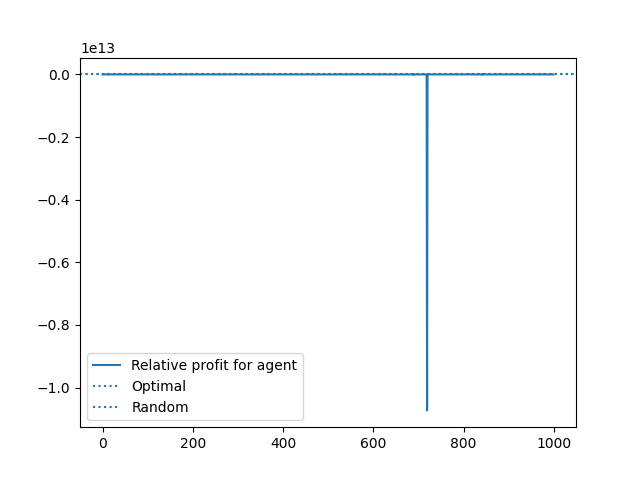
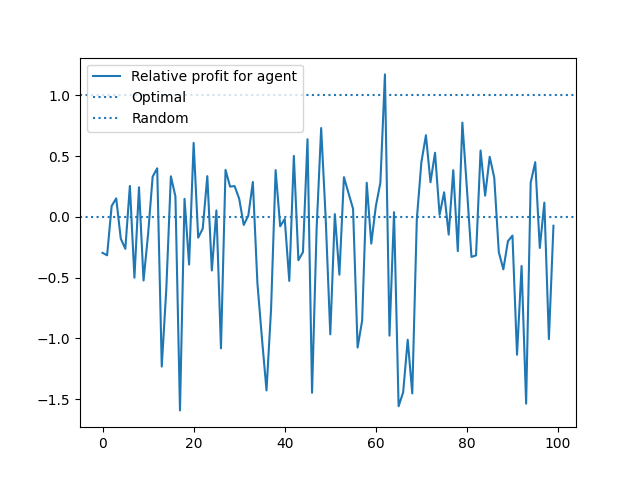
optimal agent

diff --git a/gym_trading_btc/gym_anytrading/envs/bitcoin_env.py b/gym_trading_btc/gym_anytrading/envs/bitcoin_env.py
@@ -11,7 +11,6 @@ class Actions(Enum):
     Stay = 0
     Buy = 1
 
-
 class CryptoEnv:
 
     metadata = {'render.modes': ['human']}
@@ -25,8 +24,8 @@ class CryptoEnv:
         assert df.ndim == 2
         assert df.shape[0] > self.window_size
 
-        self.trade_fee_bid_percent = 0.00  # unit
-        self._unit = 1  # units of btc
+        self.trade_fee_bid_percent = 0.0  # unit
+        self.unit = 1  # units of btc
         self._quantity = 0  # positive quantity
 
         self.seed()
@@ -284,7 +283,7 @@ class CryptoEnv:
         if terminal:
             # etat terminal -> on revend tout au prix du marché pour avoir notre profit
             s_fees = 1 if self._quantity < 0 else -1
-            transation_amount = self._quantity * self._unit * current_price * \
+            transation_amount = self._quantity * self.unit * current_price * \
                 (1 + s_fees * self.trade_fee_bid_percent)   # Sell or buy everything we need/can
             self._total_profit += transation_amount
             reward = self._total_profit
@@ -293,20 +292,20 @@ class CryptoEnv:
         else:
             if action == Actions.Buy.value:  # Buy
                 self._quantity += 1
-                current_transaction_amount = -self._unit * \
+                current_transaction_amount = -self.unit * \
                     current_price * (1+self.trade_fee_bid_percent)
                 self._total_profit += current_transaction_amount
 
             elif action == Actions.Sell.value:  # Sell
                 self._quantity -= 1
-                current_transaction_amount = self._unit * \
+                current_transaction_amount = self.unit * \
                     current_price * (1-self.trade_fee_bid_percent)
                 self._total_profit += current_transaction_amount
 
             s_fees = 0 if action == Actions.Stay.value else 1
-            reward = self._quantity * self._unit * \
+            reward = self._quantity * self.unit * \
                 (next_price - current_price) + \
-                s_fees * self.trade_fee_bid_percent * self._unit * \
+                s_fees * self.trade_fee_bid_percent * self.unit * \
                 current_price  # On n'ajoute les fees que lorsque l'on sell ou buy
             return reward
 

diff --git a/analytics/env_scorer.py b/analytics/env_scorer.py
@@ -41,41 +41,24 @@ class CryptoEnvScorer():
         return random_profit, agent_profit, optimal_profit
 
     def play_optimal(self):
-
+        fees = self.env.trade_fee_bid_percent
+        unit = self.env.unit
         start = self.env._current_tick
         steps = self.env.frame_len
         end = start + steps
-        actions = [Actions.Stay] * steps
         prices = self.env.prices[start:end]
 
-        def get_current_profit(prices, actions):
-            profit = 0
-            count = 0
-            for i in range(steps):
-                if (actions[i] == Actions.Buy):
-                    count += 1
-                    profit -= prices[i] # TODO fees
-                elif (actions[i] == Actions.Sell):
-                    count -= 1
-                    profit += prices[i] # TODO fees
-            profit += count * prices[steps-1]
-            return profit
-
-        profit = get_current_profit(prices, actions)
-
-        for i in range(3 * steps):
-            rand_index = rand.randint(0, steps - 1)
-            initial_action = actions[rand_index]
-            rand_action = initial_action
-            while(rand_action == initial_action):
-                rand_action = np.random.choice(list(Actions))
-            actions[rand_index] = rand_action
-            new_profit = get_current_profit(prices, actions)
-            if (new_profit <= profit):
-                actions[rand_index] = initial_action
-            else:
-                profit = new_profit
-            #print(profit)
+        profit = 0
+        end_buy_price = prices[steps - 1] * (1 + fees)
+        end_sell_price = prices[steps - 1] * (1 - fees)
+        
+        for i in range(steps - 1):
+            buy_price = prices[i] * (1 + fees)
+            sell_price = prices[i] * (1 - fees)
+            if sell_price > end_buy_price:
+                profit += unit * (sell_price - end_buy_price)
+            elif buy_price < end_sell_price:
+                profit += unit * (end_sell_price - buy_price)
 
         return profit
 

diff --git a/main.py b/main.py
@@ -12,7 +12,7 @@ from config_mods import config_dqn_deepsense as config
 df_btc = pd.read_csv(config["df_path"], delimiter=",")
 
 env = CryptoEnv(**config)
-agent = A2CAgent(**config)
+agent = DQNAgentDeepsense(**config)
 scorer = CryptoEnvScorer(env, agent, **config)
 
 num_episodes = config['num_episode']
